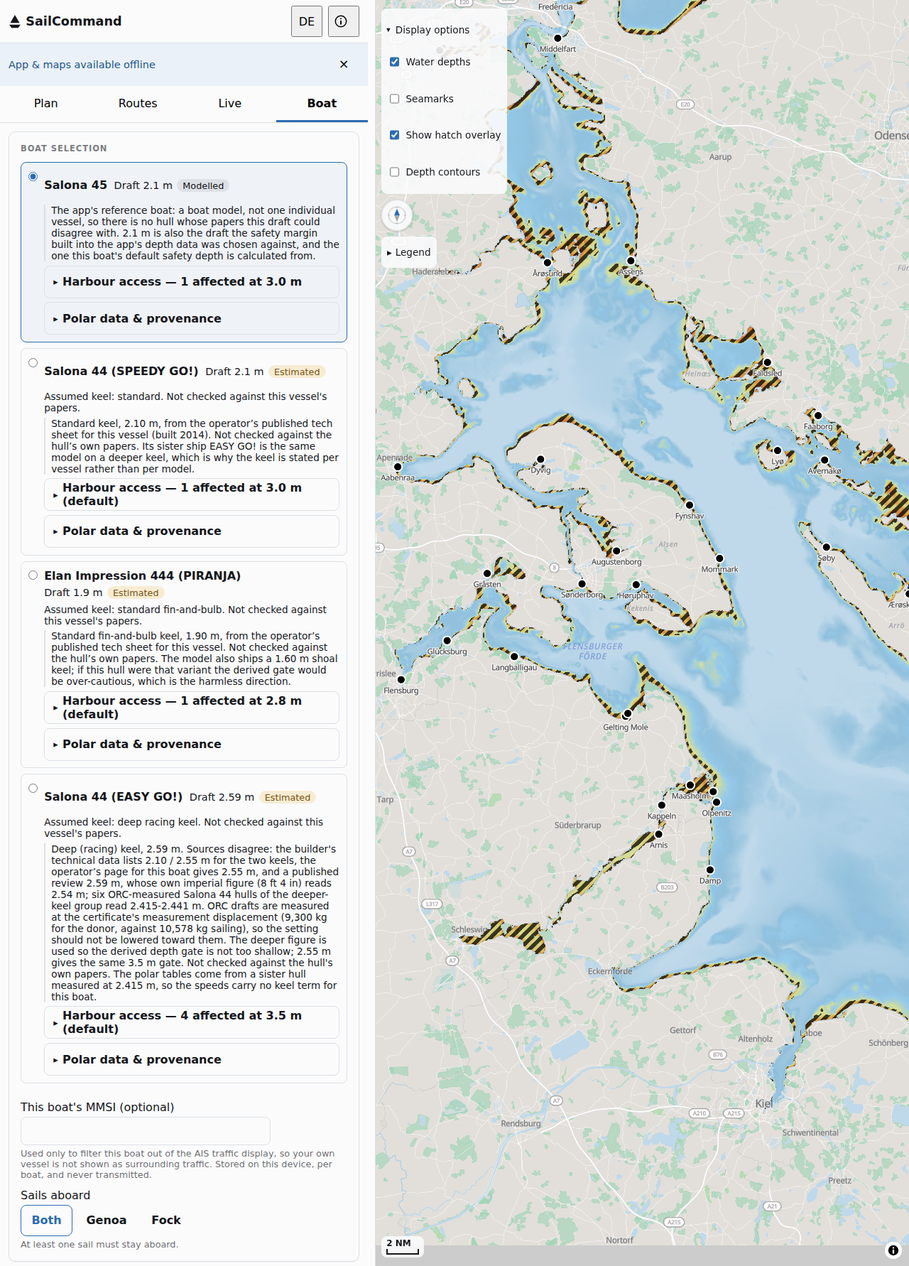
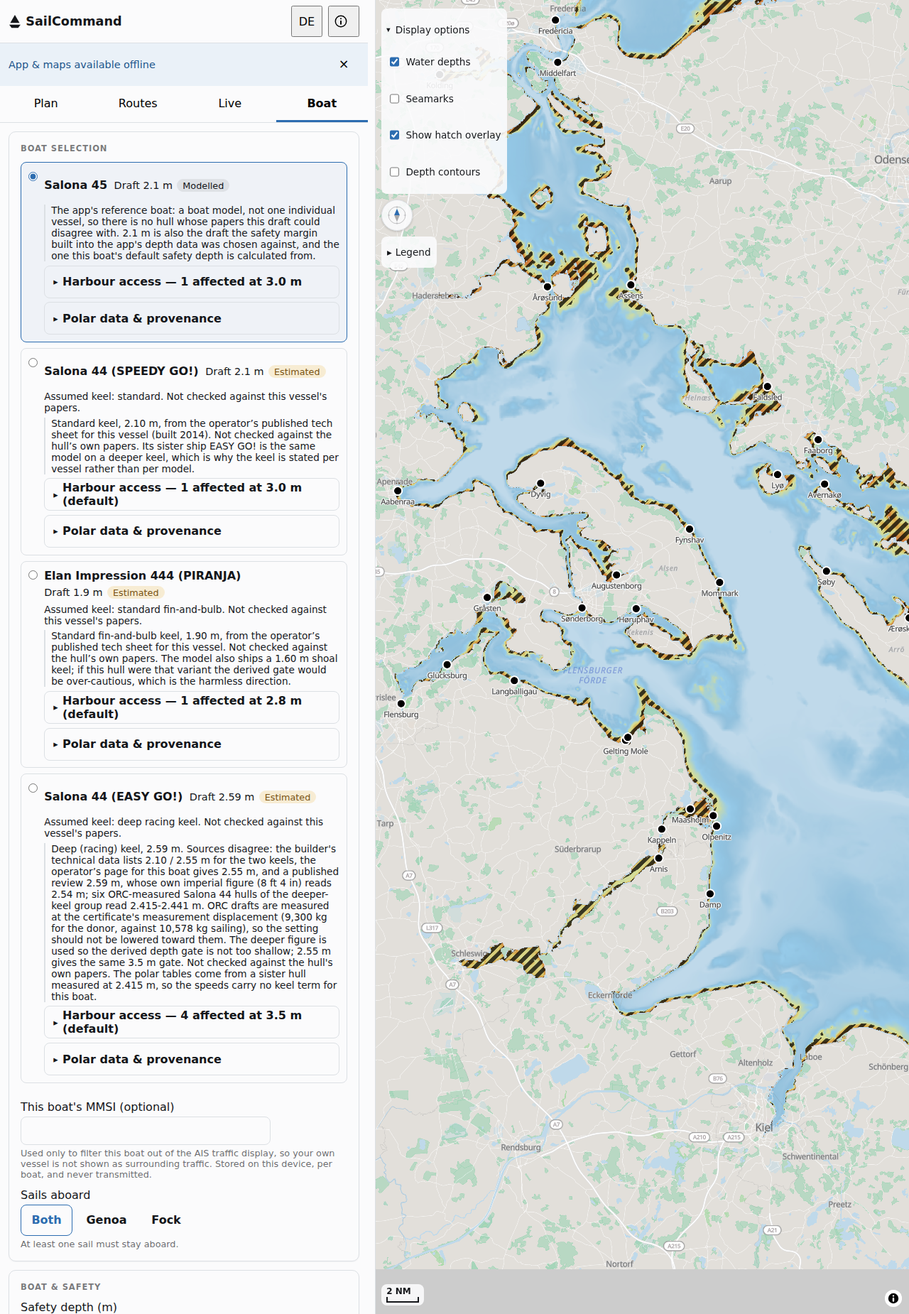
docs: v0.55.0 release sweep (#132 ritual)
Fold the four pending changelog fragments into [0.55.0], roll ROADMAP and
CONTRIBUTING to v0.56.0 and v0.57.0, re-derive the assurance-case Scorecard
rows, add next-passage and route-fit acceptance checks, and recapture the
docs images (boat-selection viewport height bumped for the capture guard).

Refs #132

Claude-Session: https://claude.ai/code/session_016BwjHtH2zi7mEpuxLFXBz2

diff --git a/docs/security-assurance-case.md b/docs/security-assurance-case.md
@@ -1,7 +1,7 @@
 # SailCommand security assurance case
 
-**Status:** current as of 2026-10-16, describing `develop` at the time of
-writing (`v0.54.0` cut). Reviewed at each release cut.
+**Status:** current as of 2026-10-17, describing `develop` at the time of
+writing (`v0.55.0` cut). Reviewed at each release cut.
 **Audience:** users deciding whether to trust the app, and reviewers assessing
 the project (this document is the artifact for the OpenSSF Best Practices
 `assurance_case` criterion).
@@ -375,7 +375,7 @@ place to occur, not that it was judged unlikely.
 | **A03 Injection** (CWE-79 XSS, CWE-89 SQLi, CWE-611 XXE) | Countered | No SQL and no server-side interpreter. XSS: no `innerHTML` / `dangerouslySetInnerHTML` / `eval` / `new Function` anywhere; React escapes by default. XXE: `DOMParser` with `application/xml` does not resolve external entities. CodeQL's `js/xss-through-dom` alert on that parse is a **documented false positive** — its DOM-XSS sink model is mime-insensitive, while an `application/xml` parse is inert and the parser extracts only numeric coordinates and enumerated notices |
 | **A04 Insecure design** | Countered | This document is the design argument; see [§5](#5-secure-design-argument). Threats were considered against the architecture, and the largest control is architectural: no backend, no accounts, no central data |
 | **A05 Security misconfiguration** | Countered | Minimal workflow permissions, SHA-pinned actions, protected branches, secret scanning with push protection, no debug endpoints, static hosting. GitHub Pages cannot set response headers, so the app injects a `<meta http-equiv="Content-Security-Policy">` at build time (`cspMeta()` in `app/vite.config.ts`) with `default-src 'self'`, a `connect-src` allowlist of `'self'` plus Open-Meteo and aisstream.io, `worker-src 'self'` (no `blob:` — it would defeat `script-src 'self'`), `img-src` widened to `data:`/`blob:` where maplibre-gl 6 demonstrably needs it, and no `'unsafe-inline'`/`'unsafe-eval'`, plus the static `<meta name="referrer" content="strict-origin-when-cross-origin">` already present in `app/index.html` ([#223](https://github.com/DocGerd/sail_command/issues/223)). The meta form cannot express `frame-ancestors` or `report-uri` — accepted, static host with no framing threat model and no collector |
-| **A06 Vulnerable and outdated components** (CWE-1104) | Countered | Lockfiles for every ecosystem; Dependabot across five update configurations spanning three package ecosystems (npm ×2, pip ×2, github-actions) weekly plus security updates; no open Dependabot alerts (an auto-dismissed alert is not counted; see the `fast-uri` row in §7) — the live state is the fact rather than this sentence: `gh api repos/DocGerd/sail_command/dependabot/alerts --jq '[.[]\|select(.state=="open")]\|length'` (0 at the `v0.54.0` cut); a committed third-party notices inventory whose drift fails CI; no vendored or forked convenience copies |
+| **A06 Vulnerable and outdated components** (CWE-1104) | Countered | Lockfiles for every ecosystem; Dependabot across five update configurations spanning three package ecosystems (npm ×2, pip ×2, github-actions) weekly plus security updates; no open Dependabot alerts (an auto-dismissed alert is not counted; see the `fast-uri` row in §7) — the live state is the fact rather than this sentence: `gh api repos/DocGerd/sail_command/dependabot/alerts --jq '[.[]\|select(.state=="open")]\|length'` (0 at the `v0.55.0` cut); a committed third-party notices inventory whose drift fails CI; no vendored or forked convenience copies |
 | **A07 Identification and authentication failures** | N/A by architecture | There is no authentication. No accounts, no passwords, no sessions, no password reset, nothing to brute-force |
 | **A08 Software and data integrity failures** (CWE-502) | **Partially countered** | Reproducible double-build with byte-drift gating, SHA-pinned actions, protected branches, post-deploy smoke probe, and — from `v0.8.0` — SSH-signed release tags verifiable via `git tag -v` ([#322](https://github.com/DocGerd/sail_command/issues/322)); the signing key is registered and the `git tag -v` verification path is proven end to end for every signed tag including `v0.8.0`, so a user willing to run that command can confirm a tag traces to the maintainer. GitHub's Verified badge — the no-local-config channel — is a documented exception for the `v0.8.0` tag itself (signed under an email not registered on the maintainer's GitHub account; see `v0.8.1`'s CHANGELOG entry) and does show correctly for **every** tag from `v0.8.1` onward, each reporting `verified: true, reason: "valid"` — re-derivable with `gh api repos/DocGerd/sail_command/git/tags/$(git rev-parse refs/tags/vX.Y.Z) --jq .verification` rather than trusted from a list here. No untrusted deserialization: IndexedDB uses structured clone of the app's own records, and a corrupt record is isolated to its own row rather than blanking the list. **Still partial**: signing covers the tagged commit's authorship, not the deployed artifact bytes GitHub Pages serves, and `v0.1.0`–`v0.7.0` remain permanently unsigned |
 | **A09 Logging and monitoring failures** | Accepted, documented | There is deliberately no telemetry — a privacy choice that means client-side attacks cannot be observed centrally. Repository-side monitoring exists (CodeQL, Dependabot, Scorecard, deploy smoke probe). For a client-only app with no user data on any server, the privacy benefit is judged to outweigh the lost visibility |
@@ -397,8 +397,8 @@ Listing these is part of the argument's honesty, not an aside.
 | `connect-src` restricts background requests only — top-level navigation, `window.open`, DNS-prefetch/preconnect, and WebRTC are unrestricted | A compromised bundle can still exfiltrate via a `location.href` redirect, a popup, prefetch/preconnect hints, or a WebRTC data channel (raises the impact of [T1](#t1--supply-chain-compromise-of-a-bundled-dependency)) | Accepted — [#223](https://github.com/DocGerd/sail_command/issues/223); CSP3's `navigate-to` directive was never shipped in browsers, and WebRTC has no `default-src` fallback to restrict it with |
 | Tags through `v0.7.0` are permanently unsigned; even a signed tag only covers commit authorship, not deployed artifact bytes | Downstream cannot fully verify authenticity for pre-`v0.8.0` releases, and even post-signing verification doesn't independently prove the bytes GitHub Pages serves match ([T5](#t5--tampering-between-the-repository-and-the-users-browser)) | Accepted, narrowed — [#222](https://github.com/DocGerd/sail_command/issues/222) shipped the verification docs and process (`SECURITY.md`, `CONTRIBUTING.md`); [#322](https://github.com/DocGerd/sail_command/issues/322) landed the signing mechanism and a registered public key, live from `v0.8.0`. Every release tag from `v0.8.0` onward has shipped signed, and every one from `v0.8.1` onward additionally shows GitHub's Verified badge — `v0.8.0` itself signed under an unregistered email (GitHub attribution gap, not a signature problem; see the `v0.8.1` CHANGELOG entry), which is the single documented exception. Re-derive with `gh api repos/DocGerd/sail_command/git/tags/$(git rev-parse refs/tags/vX.Y.Z) --jq .verification`. Still not fully "closed": signing covers the tagged commit, never the deployed artifact bytes, and re-tagging `v0.1.0`–`v0.7.0` is explicitly out of scope (would break the `(main SHA, git-describe version)` deploy-identity scheme) — that part of the gap is permanent, not a bootstrap step |
 | Statement coverage threshold is a floor, not a ratchet, and is checked only nightly | A regression can erode up to ~14 points below the measured baseline before it is reported, and — since the check runs on a nightly schedule, not per-PR — a regression can also sit unreported for up to 24h after merging | Accepted, planned — [#221](https://github.com/DocGerd/sail_command/issues/221) delivered the measurement; the figures below are read off the nightly `Coverage` run (`coverage.yml`), which is what re-takes them — the release cut re-runs nothing: 93.92% statements on 2026-08-03 (#221's original run), and 94.17% statements / 90.39% branches / 94.06% functions / 95.65% lines on 2026-09-05 (`coverage.yml` run 33951109235 on `develop` at `a4d7357`, 2686 tests across 174 files) — re-derive the newest rather than trusting this pair: `gh run list --workflow=coverage.yml --limit 1` — comfortably satisfying the OpenSSF `test_statement_coverage80` criterion, and leaving the erosion corridor below the 80% floor at ~14 points as described above; [#319](https://github.com/DocGerd/sail_command/issues/319)/[#342](https://github.com/DocGerd/sail_command/issues/342) added `thresholds.statements: 80` in `app/vite.config.ts` plus a non-required `.github/workflows/coverage.yml` workflow that runs nightly (`schedule`) and on manual `workflow_dispatch` — not per-PR or per-push, so the full v8-instrumented suite never adds latency to a PR. Since [#1504](https://github.com/DocGerd/sail_command/issues/1504) that workflow shards the suite across `coverage-shard` matrix jobs and a `coverage-merge` job checks the 80% floor against the merged coverage map; read the shard count and caps off the workflow file. Getting there needed a centralized coverage-aware test-timeout module (`app/src/test/timeouts.ts`, imported by every solver-heavy test file) plus a structural guard (`app/src/test/timeoutGuard.test.ts`) after three earlier dispatch attempts each failed on a different timeout surface (a job-level `timeout-minutes` cap, then the solver-heavy tests' own per-test `vi.setConfig`/`timeout` budgets under v8 instrumentation — raising the job cap could never have fixed the second). `src/sw.ts` and `src/routing/worker.ts` remain IN coverage scope at ~0% BY DESIGN — jsdom has no real ServiceWorker or dedicated-Worker execution model — with their functional assurance instead coming from `app/e2e/offline.spec.ts`, `csp.spec.ts`, `basemap-fallback.spec.ts`, `plan.spec.ts`, `live.spec.ts`, and `deploy.yml`'s post-deploy CDN smoke probe; excluding them was considered and rejected (see the #319 decision comment) since together they are only ~0.57% of statements and excluding would *raise*, not preserve, the published figure. The 80% floor is deliberate, not a ceiling, and both the ~14-point corridor and the nightly (not per-PR) cadence are knowingly accepted gaps — revisit at the next release cut |
-| Scorecard code-scanning alert #10, `VulnerabilitiesID`, advisory GHSA-hrr3-gc8f-f4qj | The dev dependency `fast-uri` was at 3.1.7 (build-time only, not shipped in the bundle). Dependabot alert #14 for the same advisory is `auto_dismissed`, so an empty open-Dependabot list does not mean no known vulnerable dependency | Open when recorded; `fast-uri` was bumped to 3.1.8 by PR #1701 ([#1695](https://github.com/DocGerd/sail_command/issues/1695)) (lockfile only; the built bundle was byte-identical). The earlier Scorecard alert `Maintained` (#5) is `fixed` (`fixed_at` 2026-10-15); `CIIBestPracticesID` (#6) reads `state: null`, with its `develop` instance `fixed` and its `main` instance `open`; re-derive with `gh api repos/DocGerd/sail_command/code-scanning/alerts/10 --jq .state` |
-| Open code-scanning alert: OpenSSF Scorecard `SAST` check (`SASTID`), `develop` instance | None derivable from the alert itself — it names no package, file, or line; its message reads "29 commits out of 30 are checked with a SAST tool", i.e. a SAST tool ran but not on every commit in Scorecard's recent-commit window | Open, tracked — [#72](https://github.com/DocGerd/sail_command/issues/72). PR #1701 removed `codeql.yml`'s pull-request `paths:` filter so that prose-only PRs run CodeQL. Re-derive from the alert's most_recent_instance.message |
+| Scorecard code-scanning alert #10, `VulnerabilitiesID`, advisory GHSA-hrr3-gc8f-f4qj | The dev dependency `fast-uri` was at 3.1.7 (build-time only, not shipped in the bundle). Dependabot alert #14 for the same advisory is `auto_dismissed`, so an empty open-Dependabot list does not mean no known vulnerable dependency | Fixed — `fast-uri` was bumped to 3.1.8 by PR #1701 ([#1695](https://github.com/DocGerd/sail_command/issues/1695)) (lockfile only; the built bundle was byte-identical), and alert #10 reads `fixed` (`fixed_at` 2026-10-17). The earlier Scorecard alert `Maintained` (#5) is `fixed` (`fixed_at` 2026-10-15); `CIIBestPracticesID` (#6) reads `state: null`, with its `develop` instance `fixed` and its `main` instance `open`; re-derive with `gh api repos/DocGerd/sail_command/code-scanning/alerts/10 --jq .state` |
+| Open code-scanning alert: OpenSSF Scorecard `SAST` check (`SASTID`), `develop` instance | None derivable from the alert itself — it names no package, file, or line; its message reads "26 commits out of 30 are checked with a SAST tool", i.e. a SAST tool ran but not on every commit in Scorecard's recent-commit window | Accepted, issue closed — [#72](https://github.com/DocGerd/sail_command/issues/72) closed 2026-10-17 after PR #1701 removed `codeql.yml`'s pull-request `paths:` filter, so CodeQL runs on every pull request to `main` or `develop`. Alert #7 still read open after that merge, because prose-only commits from before it remained in the 30-commit window. Re-derive from the alert's most_recent_instance.message |
 | Dismissed code-scanning alert: CodeQL `js/superfluous-trailing-arguments`, severity warning (no security severity) | None — it fires on `app/src/lib/depthColor.test.ts`, a test file that never ships, at a call that deliberately passes a superfluous argument under `@ts-expect-error` to assert at compile time that neither depth ramp function has a `safetyDepthM` slot | Accepted, intentional — a quality rather than security rule surfaced by the [#534](https://github.com/DocGerd/sail_command/issues/534) `security-and-quality` widening, same class as the six recorded in [#600](https://github.com/DocGerd/sail_command/issues/600). Dismissed as `used in tests` rather than fixed (alerts #17, #18, #21), so the deliberate call site remains. Enumerate the live set rather than trusting this table: `gh api repos/DocGerd/sail_command/code-scanning/alerts --jq '.[]\|select(.state!="fixed")\|"\(.number) \(.state) \(.rule.id)"'` |
 | Bus factor is 1 | No second person can review, merge, release, or respond to a report | Structural — [`GOVERNANCE.md`](../GOVERNANCE.md#continuity-and-succession) |
 | GitHub Pages CDN is trusted | A CDN compromise would serve modified bytes; no subresource integrity is possible for the entry document | Accepted — inherent to static hosting |

diff --git a/ROADMAP.md b/ROADMAP.md
@@ -13,40 +13,40 @@ The authoritative, always-current view is the
 milestones. This file is the human-readable summary of that state, refreshed at
 each release cut.
 
-Current release: **v0.54.0**. See [`CHANGELOG.md`](CHANGELOG.md) for what has
+Current release: **v0.55.0**. See [`CHANGELOG.md`](CHANGELOG.md) for what has
 shipped.
 
-## Now — v0.54.0
+## Now — v0.55.0
 
-The `v0.54.0` cut (2026-10-16) worked the
-[`v0.54.0` milestone](https://github.com/DocGerd/sail_command/milestones):
-two user-visible changes (per `CHANGELOG.md`'s own `[0.54.0]` section) — the
-Boat tab's **Sails aboard** control for planning with only some of a boat's
-headsails ([#1661](https://github.com/DocGerd/sail_command/issues/1661)), and
-EASY GO! planning on its own polar tables, a modelled jib from a sister hull's
-ORC certificate and an estimated genoa
-([#1660](https://github.com/DocGerd/sail_command/issues/1660)) — plus the
-currents data-evaluation spike
-([#18](https://github.com/DocGerd/sail_command/issues/18), closed as answered),
-which changes no routing: no candidate current source passed its quality gate
-(`docs/spikes/18-currents-source-quality-gate.md`). The route-fit residual
-([#1639](https://github.com/DocGerd/sail_command/issues/1639)) and the
-Scorecard findings ([#72](https://github.com/DocGerd/sail_command/issues/72))
-moved on to `v0.55.0`.
+The `v0.55.0` cut (2026-10-17) closed eight issues from the
+[`v0.55.0` milestone](https://github.com/DocGerd/sail_command/milestones),
+four of them user-visible (per `CHANGELOG.md`'s own `[0.55.0]` section):
+planning the next passage from any planned route in one tap, including
+offline from the route's stored forecast ([#1707](https://github.com/DocGerd/sail_command/issues/1707), slice 1 of
+[#19](https://github.com/DocGerd/sail_command/issues/19)); two route-fit fixes, one for the start marker under the bottom sheet
+after a resize ([#1639](https://github.com/DocGerd/sail_command/issues/1639)) and one for the start and destination labels
+running under the map controls ([#1641](https://github.com/DocGerd/sail_command/issues/1641)); and wind forecast requests that
+back off and retry when Open-Meteo is overloaded and reuse a recent forecast
+([#1712](https://github.com/DocGerd/sail_command/issues/1712)). The rest changed no user-visible behaviour: the `fast-uri`
+dev-dependency bump ([#1695](https://github.com/DocGerd/sail_command/issues/1695)), CodeQL running on every pull request
+together with the Scorecard tracking and assurance-case wording
+([#72](https://github.com/DocGerd/sail_command/issues/72), [#1696](https://github.com/DocGerd/sail_command/issues/1696)), and the spike measuring EASY GO!'s relaxed approaches
+to Faldsled and Rudkøbing ([#932](https://github.com/DocGerd/sail_command/issues/932)).
 
-## Next — v0.55.0
+## Next — v0.56.0
 
-The [`v0.55.0` milestone](https://github.com/DocGerd/sail_command/milestones)
-holds four issues as of this cut: the open OpenSSF Scorecard `SAST`
-alert ([#72](https://github.com/DocGerd/sail_command/issues/72)),
-the route-fit start marker under the bottom sheet at 820x1180
-([#1639](https://github.com/DocGerd/sail_command/issues/1639)), the
-dev-dependency bump `fast-uri` >= 3.1.8
-([#1695](https://github.com/DocGerd/sail_command/issues/1695)), and
-re-deriving the assurance-case SAST row and this file's #72 wording against
-live Scorecard alert #7
-([#1696](https://github.com/DocGerd/sail_command/issues/1696)). The milestone
-page is the only authoritative view, check it directly rather than this file.
+The [`v0.56.0` milestone](https://github.com/DocGerd/sail_command/milestones)
+holds eight issues as of this cut. Routing: the backtrack collinear merge
+emitting a leg never re-checked against the depth gate ([#1705](https://github.com/DocGerd/sail_command/issues/1705)), the two-rig
+★ for tier-C boats flagged as estimate-based ([#1716](https://github.com/DocGerd/sail_command/issues/1716)), and multi-day trip
+records with undo for the next passage ([#1708](https://github.com/DocGerd/sail_command/issues/1708)). Wind: a labelled MET
+Norway fallback provider ([#1713](https://github.com/DocGerd/sail_command/issues/1713)). Map and route fit: the start label
+about 3 px under the sheet after a reload at 820x1180 ([#1717](https://github.com/DocGerd/sail_command/issues/1717)), the end
+marker under the expanded display-options panel at the same size
+([#1702](https://github.com/DocGerd/sail_command/issues/1702)), and a re-fit still possible during Live after an earlier map
+gesture ([#1710](https://github.com/DocGerd/sail_command/issues/1710)). Next passage: the preview lagging the tap after device
+sleep near 10:00 ([#1711](https://github.com/DocGerd/sail_command/issues/1711)). The milestone page is the only authoritative
+view, check it directly rather than this file.
 
 ## Themes for the next year
 
@@ -90,10 +90,12 @@ itself still shows GitHub's "Verified" badge as `no_user` rather than
 verified — a tagger-identity attribution gap fixed going forward from
 `v0.8.1`, not a signature problem; see the `v0.8.1` CHANGELOG entry. The
 OpenSSF criterion cares about the signing mechanism and its documentation,
-not that badge.) Remaining:
-
-- Tracking the open OpenSSF Scorecard `SAST` alert
-  ([#72](https://github.com/DocGerd/sail_command/issues/72)).
+not that badge.) The Scorecard tracking issue
+([#72](https://github.com/DocGerd/sail_command/issues/72)) closed at the
+`v0.55.0` cut after CodeQL began running on every pull request to `main` and
+`develop`; Scorecard's `SAST` alert #7 still read open then, its 30-commit
+window holding earlier prose-only commits. No other item in this theme is
+tracked.
 
 The Silver criterion `access_continuity` was previously described here as
 unclosable by any change in this repository, requiring a second person with
@@ -113,7 +115,8 @@ transfer to a fork automatically).
 The largest open product questions. The currents spike
 ([#18](https://github.com/DocGerd/sail_command/issues/18)) closed at the
 `v0.54.0` cut with the quality gate failed, so currents stay out of the
-isochrone cost; the multi-day item was unscheduled, in `Backlog`, at that cut.
+isochrone cost. The multi-day item stayed in `Backlog` at that cut; slice 1
+of it, planning the next passage from a planned route, shipped at `v0.55.0`.
 Each issue's milestone field is the current fact:
 
 - Currents, tides, and sea state (waves) in the isochrone cost
@@ -204,7 +207,8 @@ settings; its four residuals did not close with it
 `v0.30.0` cut;
 [#930](https://github.com/DocGerd/sail_command/issues/930) closed at the
 `v0.34.0` cut, its harness made able to fail; and
-[#932](https://github.com/DocGerd/sail_command/issues/932) remains open (in `Backlog` at the `v0.46.0` cut).
+[#932](https://github.com/DocGerd/sail_command/issues/932) closed at the
+`v0.55.0` cut as a spike document (`docs/spikes/932-easygo-relaxed-approaches.md`).
 
 The `v0.20.0` cut addressed sixteen items in this area, out of eighteen
 issues total that milestone closed. The largest strand cut what continuous

diff --git a/docs/acceptance.md b/docs/acceptance.md
@@ -539,6 +539,21 @@ selected in §1.
       cancelling a recalculate) is left exactly as it was, never replaced by
       completion copy for the cancelled attempt. Press "Plan route" again
       and confirm a fresh solve starts and completes normally.
+- [ ] **2.19 Next passage seeds the planner (#1707).** With the §2 plan
+      displayed, the result card shows "Plan next passage" ("Nächste Passage
+      planen") with a line beneath naming the start harbour (this route's
+      destination) and a departure. Press it: the planner's origin becomes that
+      destination, the destination field takes focus and is empty, via points
+      are cleared, and the departure is the first 10:00 local after this route's arrival (and
+      after now). Pick a destination and press "Plan route": a new plan is
+      saved beside the first, which is left untouched. Restore Flensburg →
+      Marstal before §3.
+- [ ] **2.20 Route fit keeps endpoint labels clear (#1639, #1641).** With a
+      plan displayed, the start and destination labels sit fully on the map,
+      clear of the map controls and the bottom sheet. Reload with the plan
+      restored, resize the window, or dismiss the offline-ready notice: the
+      route is fitted again and the labels stay clear. A label at or under a
+      control or the sheet is a defect.
 
 **Result:** Pass / Fail / Partial — notes: ___________________________
 
@@ -584,6 +599,13 @@ Do this part on an actual Android phone with Chrome.
       updates, and it behaves sensibly relative to the actual direction of
       travel. (Airplane mode may need to be off for GPS depending on device
       — note which mode this was run in.)
+- [ ] **4.5 Next passage offline (#1707).** In airplane mode, open a saved
+      plan and press "Plan next passage". The banner reads "Offline — only
+      the next passage can be planned, from the stored forecast" ("Offline —
+      nur die nächste Passage mit gespeicherter Vorhersage planbar"). If the
+      stored forecast reaches the seeded departure, planning completes and the
+      planner names the plan it reused; if it ends first, the planner says the
+      departure needs a connection. Both are correct, so note which was seen.
 
 **Result:** Pass / Fail / Partial — notes: ___________________________
 

diff --git a/CHANGELOG.md b/CHANGELOG.md
@@ -7,6 +7,18 @@ and this project adheres to [Semantic Versioning](https://semver.org/spec/v2.0.0
 
 ## [Unreleased]
 
+## [0.55.0] - 2026-10-17
+
+### Added
+
+- Plan the next passage from any planned route in one tap: it starts at that route's destination and departs at the first 10:00 after arrival, and offline it can be planned from the route's stored forecast (#1707).
+
+### Fixed
+
+- The route fit is re-applied when the map or bottom sheet resizes after the auto-fit, such as when the offline-ready notice closes, so the start marker no longer ends up under the sheet (#1639).
+- The route fit leaves room for the start and destination labels, including for a restored or loaded plan, so they no longer run under the map controls or off the map edge (#1641).
+- Wind forecast requests now wait and retry when Open-Meteo is briefly overloaded, stop immediately on an hourly or daily limit, and reuse a recently loaded forecast for the same area instead of fetching it again (#1712).
+
 ## [0.54.0] - 2026-10-16
 
 ### Added
@@ -1275,7 +1287,8 @@ and this project adheres to [Semantic Versioning](https://semver.org/spec/v2.0.0
 - German/English (de/en) UI localization (#23).
 - Full offline operation after first load via a service worker precache, including the regional PMTiles basemap with Range/206 support (#26).
 
-[Unreleased]: https://github.com/DocGerd/sail_command/compare/v0.54.0...HEAD
+[Unreleased]: https://github.com/DocGerd/sail_command/compare/v0.55.0...HEAD
+[0.55.0]: https://github.com/DocGerd/sail_command/compare/v0.54.0...v0.55.0
 [0.54.0]: https://github.com/DocGerd/sail_command/compare/v0.53.0...v0.54.0
 [0.53.0]: https://github.com/DocGerd/sail_command/compare/v0.52.0...v0.53.0
 [0.52.0]: https://github.com/DocGerd/sail_command/compare/v0.51.0...v0.52.0

diff --git a/README.md b/README.md
@@ -109,6 +109,10 @@ installs as a standalone icon and works fully offline after the first visit
 - Saved plans, including the wind grid they were computed from, persist
   offline in the browser — a saved route always re-renders against the
   forecast it was planned with, never a re-fetched one.
+- **Next passage**: any planned route offers "Plan next passage", which seeds
+  the planner with that route's destination as the start and the first 10:00
+  after arrival as the departure; you pick the next destination
+  ([#1707](https://github.com/DocGerd/sail_command/issues/1707)).
 - The chart carries a north arrow and a nautical scale bar: tapping the arrow
   switches between north-up and course-up (course-up follows the GPS course
   while under way, holding the last course if the fix drops out), and the
@@ -125,7 +129,9 @@ installs as a standalone icon and works fully offline after the first visit
   vessels in view" list covering the vessels in the current map view. Off by default and fully inert without a key; your own vessel
   is filtered out by MMSI.
 
-Planning a new route requires an internet connection (wind forecast fetch);
+Planning a new route requires an internet connection (wind forecast fetch),
+except the **next passage** from a planned route, which reuses that route's
+stored forecast offline for as long as it reaches the departure;
 everything else — viewing/loading saved plans, the map, live GPS guidance —
 works fully offline once the app has been loaded once, except that the map's
 northern and eastern extension needs its region archive saved first (see

diff --git a/CONTRIBUTING.md b/CONTRIBUTING.md
@@ -229,14 +229,14 @@ labels on **pull requests** are applied automatically from changed paths by
 
 **Milestones**
 
-- `v0.55.0` — the milestone now being filled; it closes when the release PR
+- `v0.56.0` — the milestone now being filled; it closes when the release PR
   merges and the tag is pushed.
-- `v0.56.0` — the next MINOR release, opened fresh at the `v0.54.0` cut per
+- `v0.57.0` — the next MINOR release, opened fresh at the `v0.55.0` cut per
   the roll-forward convention below.
 - `Backlog` — accepted, not yet scheduled into a release.
 - `Icebox` — deferred / maybe-never; revisit opportunistically.
 
-`v0.4.0` through `v0.53.0` are closed (plus the `v0.5.1`, `v0.12.1`, and
+`v0.4.0` through `v0.54.0` are closed (plus the `v0.5.1`, `v0.12.1`, and
 `v0.13.1` patch milestones). Whichever cut is in flight is always the
 exception, and reads the same way every time: its issues are closed while
 its milestone object is not, because that closes only at tag push (first
